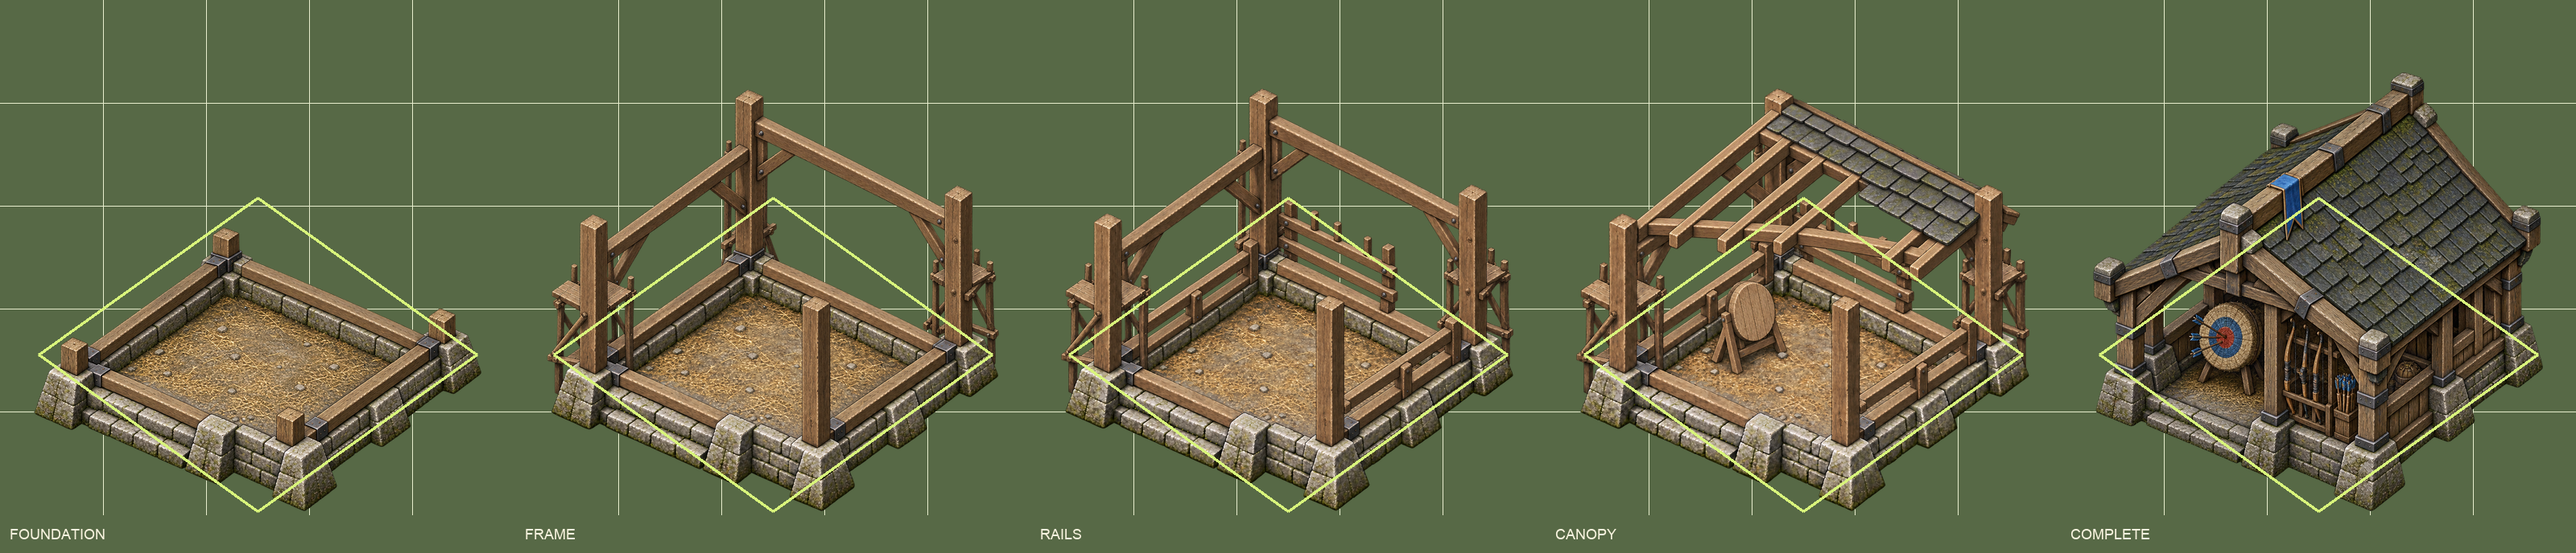
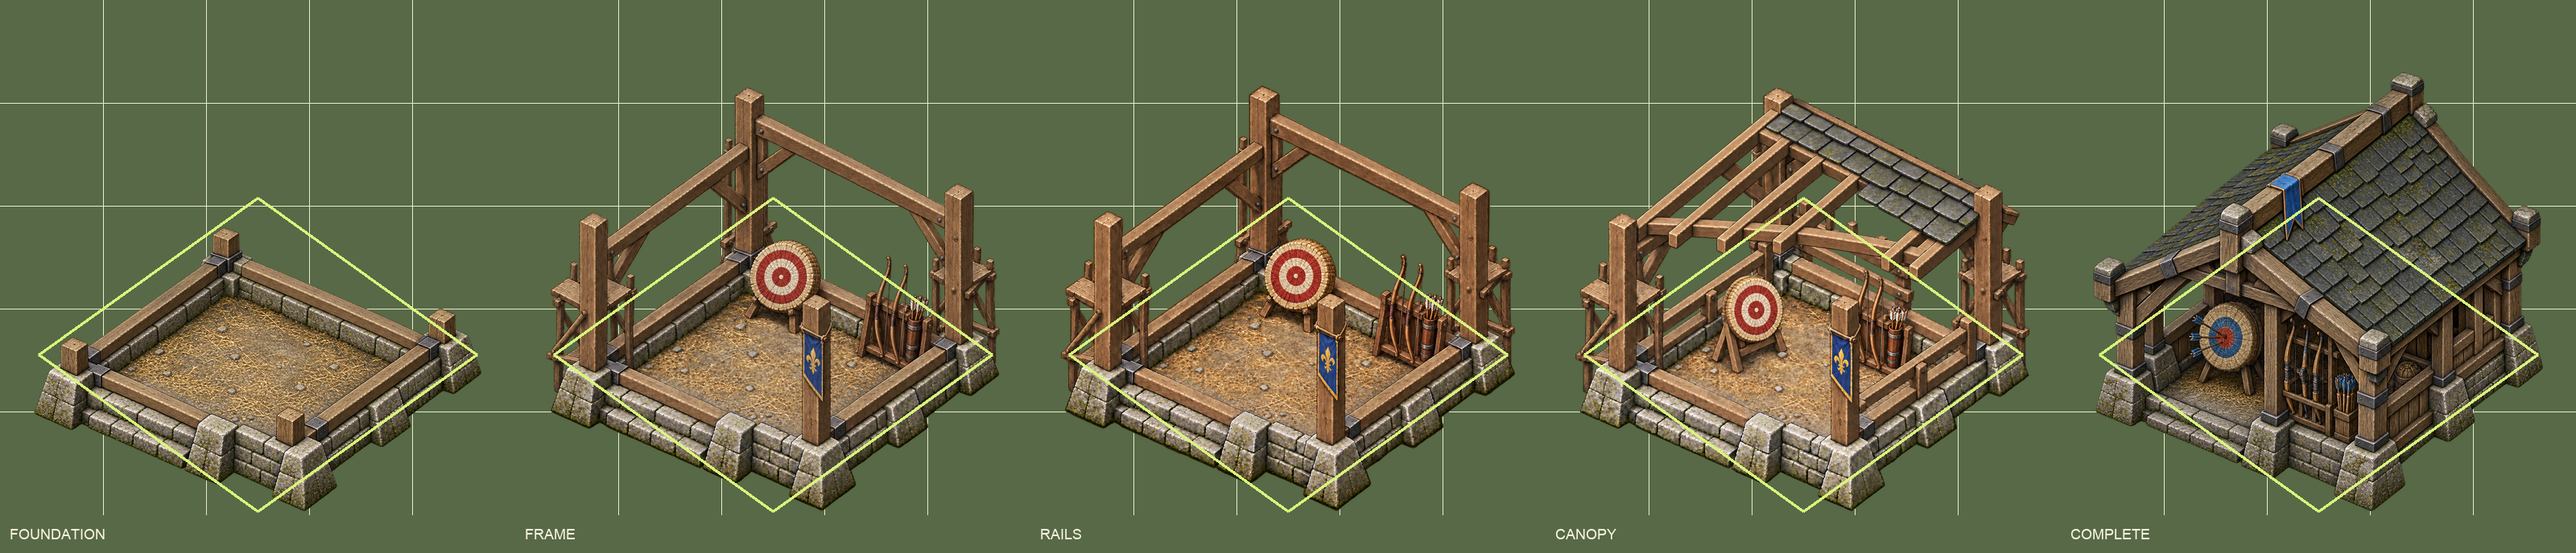
art: clarify Archery Range construction identity

diff --git a/scripts/pack-archery-range-construction-v1.py b/scripts/pack-archery-range-construction-v1.py
@@ -14,10 +14,18 @@ from PIL import Image, ImageChops, ImageDraw, ImageFont
 ROOT = Path(__file__).resolve().parents[1]
 PACK = ROOT / "assets/buildings/archery-range-construction-v1"
 SOURCE = PACK / "source/generated"
+REVISION_SOURCE = PACK / "source/generated-v2"
 NORMALIZED = PACK / "source/frames"
 RUNTIME = PACK / "runtime"
 PREVIEW = PACK / "previews"
 STATES = ("foundation", "frame", "rails", "canopy", "complete")
+PLAYZOOM_STATES = ("frame", "rails", "complete")
+TEAM_PENNANT_REGIONS = {
+    "frame": (650, 700, 850, 980),
+    "rails": (650, 700, 850, 980),
+    "canopy": (650, 700, 850, 980),
+    "complete": (470, 300, 650, 530),
+}
 FRAME_PX = 640
 FIT_PX = 560
 FOOTPRINT_CELLS = 3
@@ -25,6 +33,13 @@ CAMERA_ELEVATION_DEGREES = 46
 BOTTOM_MARGIN_PX = 4
 GROUND_PIVOT = {"x": 320, "y": 441}
 ATLAS_WIDTH = FRAME_PX * len(STATES)
+
+
+def source_path(state: str) -> Path:
+    revision = REVISION_SOURCE / f"archery-range-{state}.png"
+    if revision.exists():
+        return revision
+    return SOURCE / f"archery-range-{state}.png"
 
 
 def alpha_bounds(image: Image.Image, threshold: int = 8) -> tuple[int, int, int, int]:
@@ -50,17 +65,17 @@ def normalize(image: Image.Image, reference_width: int) -> tuple[Image.Image, tu
     return frame, bounds, (x, y, size[0], size[1])
 
 
-def banner_mask(source: Image.Image) -> Image.Image:
-    """Mask only the blue cloth pennant, leaving target and arrow colors alone."""
+def banner_mask(source: Image.Image, region_box: tuple[int, int, int, int]) -> Image.Image:
+    """Mask the blue cloth pennant, leaving target, arrows, and other details alone."""
     source = source.convert("RGBA")
     hsv = source.convert("RGB").convert("HSV")
     hue, saturation, value = hsv.split()
     blue = hue.point([255 if 126 <= channel <= 190 else 0 for channel in range(256)])
     saturated = saturation.point([255 if channel >= 52 else 0 for channel in range(256)])
     visible = source.getchannel("A").point([0] + [255] * 255)
-    region = Image.new("L", source.size, 0)
-    ImageDraw.Draw(region).rectangle((470, 300, 650, 530), fill=255)
-    result = ImageChops.multiply(ImageChops.multiply(blue, saturated), region)
+    region_mask = Image.new("L", source.size, 0)
+    ImageDraw.Draw(region_mask).rectangle(region_box, fill=255)
+    result = ImageChops.multiply(ImageChops.multiply(blue, saturated), region_mask)
     return ImageChops.multiply(result, visible)
 
 
@@ -128,7 +143,25 @@ def build_map_preview(frame: Image.Image, mask: Image.Image, zoom: str, team: st
     y = round(anchor[1] - GROUND_PIVOT["y"] * canvas_height / FRAME_PX)
     capture.alpha_composite(scaled, (x, y))
     PREVIEW.mkdir(parents=True, exist_ok=True)
-    capture.save(PREVIEW / f"archery-range-meadow-zoom-{zoom}-{team}.png", optimize=True)
+    preview_label = "azure" if team == "azure" else "ember-pennant-azure-hud"
+    capture.save(PREVIEW / f"archery-range-meadow-zoom-{zoom}-{preview_label}.png", optimize=True)
+
+
+def build_playzoom_comparison(frames: dict[str, Image.Image], masks: dict[str, Image.Image]) -> None:
+    """Place unlabeled stages on one captured Meadow view at the 0.91 play zoom."""
+    capture = Image.open(PACK / "source/map-captures/meadow-zoom-091.png").convert("RGBA")
+    canvas_width = 56
+    baseline_y = 355
+    anchors = (515, 610, 705)
+    for state, center_x in zip(PLAYZOOM_STATES, anchors):
+        variant = tint_for_preview(frames[state], masks[state], "azure")
+        scaled = variant.resize((canvas_width, canvas_width), Image.Resampling.LANCZOS)
+        x = round(center_x - canvas_width / 2)
+        y = round(baseline_y - GROUND_PIVOT["y"] * canvas_width / FRAME_PX)
+        capture.alpha_composite(scaled, (x, y))
+    PREVIEW.mkdir(parents=True, exist_ok=True)
+    crop = capture.crop((460, 250, 770, 425))
+    crop.save(PREVIEW / "archery-range-identity-playzoom-unlabeled.png", optimize=True)
 
 
 def image_record(file_id: str, relative_path: str, usage: str) -> dict:
@@ -148,7 +181,11 @@ def image_record(file_id: str, relative_path: str, usage: str) -> dict:
 def build_manifest(frames: dict[str, Image.Image]) -> None:
     file_specs = []
     for state in STATES:
-        file_specs.append((f"source-{state}", f"source/generated/archery-range-{state}.png", "source"))
+        active_path = source_path(state).relative_to(PACK).as_posix()
+        file_specs.append((f"source-{state}", active_path, "source"))
+        original_path = f"source/generated/archery-range-{state}.png"
+        if active_path != original_path:
+            file_specs.append((f"source-{state}-original", original_path, "source"))
         file_specs.append((f"frame-{state}", f"source/frames/archery-range-{state}.png", "source"))
     file_specs.extend([
         ("color-source", "source/archery-range-construction-atlas.png", "source"),
@@ -228,7 +265,7 @@ def main() -> None:
     NORMALIZED.mkdir(parents=True, exist_ok=True)
     RUNTIME.mkdir(parents=True, exist_ok=True)
     PREVIEW.mkdir(parents=True, exist_ok=True)
-    originals = {state: Image.open(SOURCE / f"archery-range-{state}.png").convert("RGBA") for state in STATES}
+    originals = {state: Image.open(source_path(state)).convert("RGBA") for state in STATES}
     complete_bounds = alpha_bounds(originals["complete"])
     reference_width = complete_bounds[2] - complete_bounds[0]
     frames: dict[str, Image.Image] = {}
@@ -242,13 +279,15 @@ def main() -> None:
         frame.save(NORMALIZED / f"archery-range-{state}.png", optimize=True)
 
     mask = Image.new("L", (ATLAS_WIDTH, FRAME_PX), 0)
+    masks: dict[str, Image.Image] = {}
     for index, state in enumerate(STATES):
         frame = frames[state]
-        if state == "complete":
-            raw_mask = banner_mask(originals[state])
+        if state in TEAM_PENNANT_REGIONS:
+            raw_mask = banner_mask(originals[state], TEAM_PENNANT_REGIONS[state])
             mask_frame = normalize_mask(raw_mask, bounds_map[state], transforms[state], reference_width)
         else:
             mask_frame = Image.new("L", (FRAME_PX, FRAME_PX), 0)
+        masks[state] = mask_frame
         mask.paste(mask_frame, (index * FRAME_PX, 0))
 
     atlas = Image.new("RGBA", (ATLAS_WIDTH, FRAME_PX), (0, 0, 0, 0))
@@ -261,6 +300,7 @@ def main() -> None:
     build_contact_sheet(frames)
     build_map_preview(frames["complete"], mask.crop((4 * FRAME_PX, 0, 5 * FRAME_PX, FRAME_PX)), "091", "azure", (540, 355), 56)
     build_map_preview(frames["complete"], mask.crop((4 * FRAME_PX, 0, 5 * FRAME_PX, FRAME_PX)), "048", "ember", (590, 348), 30)
+    build_playzoom_comparison(frames, masks)
     build_manifest(frames)
     write_checksums()
     print(f"Packaged {len(STATES)} frames into {PACK.relative_to(ROOT)}")

diff --git a/assets/buildings/archery-range-construction-v1/source/prompts.md b/assets/buildings/archery-range-construction-v1/source/prompts.md
@@ -23,3 +23,19 @@ Output `exec-e9423224-e195-4df5-87c0-4e8cd8a29f6a` (rails, revised prompt):
 Output `exec-f231102b-8bc1-4ba4-aa26-d7b99725e47e` (canopy, revised prompt):
 
 > Use case: precise-object-edit. Asset type: original RTS building construction sprite, source art for a fixed-camera 2.5D game. Input image: Image 1 is the same Archery Range at about 50% construction. Preserve it as the exact identity, camera, framing, footprint, ground anchor, lighting, and material reference. Advance only the construction state to about 75%: the canopy stage. Keep the same 3-by-3-cell stone footing, four timber posts, side rails, and rear equipment rack. Add a sloped roof frame with exposed rafters. Cover roughly the rear half of the canopy in fitted dark moss-slate shingles, leaving the front half open so unfinished rafters remain clearly visible. Add a simple blank round target backing on its front stand, without painted rings or arrows. Use the painterly sculptural 3D appearance translated into a polished 2D cutout sprite; weathered timber, mossy pale stone, charcoal moss-slate, restrained blue cloth only when the standard is built. Keep the same fixed elevated three-quarter orthographic camera, azimuth, elevation, object orientation, scale, canvas crop, and pixel placement as Image 1. Keep the full square canvas and projected ground-center anchor unchanged. Preserve Image 1's soft neutral daylight and self-occlusion. Change only construction progress. The same Archery Range must stay recognizable. Show partial slate coverage and open rafters. Do not finish the whole roof; do not add the painted target rings, stored bows or arrows, or any pennant. Preserve true transparent alpha around the isolated object. No ground plane, external shadow, workers, extra props, text, labels, grid, border, watermark, or recognizable game-franchise design.
+
+## Identity revision: frame, rails, and canopy
+
+The built-in ImageGen tool accepts one prompt field, so the exclusions below are recorded inline and there is no separate negative-prompt value. Original outputs are preserved under `source/generated/`; the revisions are the active source for these three states.
+
+Output `exec-571e7372-767b-42a1-9ceb-20a1be204a4e` (`source/generated-v2/archery-range-frame.png`), edited from the first-pass frame:
+
+> Edit this existing isolated isometric RTS sprite for the Archery Range's first above-foundation construction stage. Preserve the exact camera angle, composition, transparent canvas, stone foundation, exposed timber frame, lighting, material style, and overall silhouette. Change only the interior training equipment and one small team marker. Inside the open bay, add a clearly readable circular straw target with bold cream and brick-red concentric rings on a short wooden tripod, grounded near the rear interior; add a compact rack holding two longbows and a quiver of arrows along the inside right foundation wall. Attach a small azure-blue cloth pennant with a simple gold crest to the near front timber post, halfway up, at a position that can remain consistent in later stages. At 640-pixel game-sprite size, the target and bow rack must still read as archery equipment. This is still an early, open timber frame: no walls, no roof, no extra beams, no finished building. Keep the target and rack within the current structure. Transparent background outside the object; preserve real alpha, no ground plane, no background, no cast shadow beyond the current footprint. No people, text, labels, UI, logos, or extra buildings. High-quality crisp painterly 3D game art matching the reference.
+
+Output `exec-98837a70-b22f-40ac-8b17-325a3045c21d` (`source/generated-v2/archery-range-rails.png`), edited from the first-pass rails image with the revised frame as a prop-style reference:
+
+> Update the Archery Range's third construction stage using both references. Reference 1 is the exact rails-stage structure to preserve: keep its stone foundation, all timber posts and rails, camera, composition, proportions, lighting, materials, and transparent silhouette. Reference 2 is only a style/prop reference for archery equipment and the small team pennant. At this stage the practice rails are installed: add one clearly readable round straw target with cream and brick-red rings on a small grounded stand near the back-center of the bay; add a compact rack with two longbows and a quiver of arrows along the inner right wall. Attach a small azure-blue cloth pennant with a gold crest to the same near-front center post, matching Reference 2's size and shape. Keep the structure open and unfinished with no walls or roof. Do not change the structure itself, don't cover the rails, and keep all equipment inside the existing footprint. At final 640-pixel sprite scale, target, bows, and pennant must remain recognizable. Preserve real transparent alpha outside the asset; no environment, floor plane, extra shadow, people, text, labels, UI, or logos. Crisp painterly 3D RTS game art matching the references.
+
+Output `exec-8894b2e4-fd8a-46d6-8115-675ffa6dcb59` (`source/generated-v2/archery-range-canopy.png`), edited from the first-pass canopy with the revised frame as a prop-style reference:
+
+> Revise the Archery Range's fourth construction stage using both references. Reference 1 is the exact partial-canopy structure to preserve: keep the stone foundation, all posts, beams, rails, exposed rafters, partial slate roof, camera, proportions, lighting, materials, and transparent silhouette unchanged. Reference 2 is only a prop-style reference for the target, bows, and small team pennant. In the open bay, change the plain round board into a clear cream-and-brick-red concentric archery target on the same small grounded tripod. Add a compact rack with two longbows and a quiver of arrows along the inner right wall, visible beneath the open roof. Attach a small azure-blue cloth pennant with a gold crest to the near-front center post, matching Reference 2's size and shape. Keep this a partially roofed construction stage; do not add walls, doors, or change roof coverage. Preserve the current layout and keep all equipment inside the footprint. At final 640-pixel sprite size, the target, bows, and pennant should read clearly. Preserve real transparent alpha outside the sprite; no environment, ground plane, cast shadow beyond the structure, people, text, labels, UI, or logos. Crisp painterly 3D RTS sprite art matching the references.

diff --git a/assets/buildings/archery-range-construction-v1/PROVENANCE.md b/assets/buildings/archery-range-construction-v1/PROVENANCE.md
@@ -1,12 +1,13 @@
 # Archery Range construction sprite provenance
 
 - Artwork generated 2026-09-26 with the built-in OpenAI ImageGen tool.
-- The complete frame is original project-owned Archery Range artwork. The four construction edits use that frame as their visual and camera reference.
+- The complete frame is original project-owned Archery Range artwork. The first construction pass used that frame as its visual and camera reference.
+- The revised frame, rails, and canopy preserve their first-pass construction geometry while adding the target, bow rack, arrows, and a consistent Azure pennant earlier in the sequence. Both generations are retained.
 - No Age of Empires II sprites or other third-party images were used as source pixels.
 - Images are isolated RGBA PNGs, 1254 × 1254 before normalization.
 - Normalized frames use a fixed scale derived from the complete frame's alpha width, a shared projected ground anchor, and the 3 × 3 footprint guide.
-- The team mask is authored by color selection in the pennant region. It excludes the target, arrows, and other blue details.
-- The two Meadow preview inputs are captures from the project's worker-sprite appearance review. They are included under `source/map-captures/` so the composites can be regenerated.
+- The team mask is authored by color selection in each pennant's bounded region. It excludes the target, arrows, and other blue details.
+- The two Meadow preview inputs are Azure-session captures from the project's worker-sprite appearance review. They are included under `source/map-captures/` so the composites can be regenerated. The Ember preview changes only the sprite pennant tint; its HUD and map capture remain Azure.
 - `sprite-atlas-pack-v1.json` records the image hashes and runtime page settings. `SHA256SUMS.txt` covers the package files.
 
 ## ImageGen output IDs
@@ -19,4 +20,12 @@
 | `source/generated/archery-range-canopy.png` | `exec-f231102b-8bc1-4ba4-aa26-d7b99725e47e` | Add a partial slate canopy and exposed rafters. |
 | `source/generated/archery-range-complete.png` | `exec-7fb022ea-345d-4d7b-b655-26ab03e69f86` | Original completed Archery Range reference. |
 
-The PNG exports do not contain prompt metadata. The rows above summarize each edit; the verbatim ImageGen requests remain in the originating Codex task history.
+The PNG exports do not contain prompt metadata. Initial frame, rails, and canopy prompts plus all three revision prompts are recorded in `source/prompts.md`; the initial foundation request is summarized there because its original prompt text was not retained.
+
+## Revision 2 ImageGen output IDs
+
+| File | Output ID | Edit |
+| --- | --- | --- |
+| `source/generated-v2/archery-range-frame.png` | `exec-571e7372-767b-42a1-9ceb-20a1be204a4e` | Add a readable target, bow rack, arrows, and pennant to the first above-foundation stage. |
+| `source/generated-v2/archery-range-rails.png` | `exec-98837a70-b22f-40ac-8b17-325a3045c21d` | Carry the same archery equipment and pennant into the practice-rails stage. |
+| `source/generated-v2/archery-range-canopy.png` | `exec-8894b2e4-fd8a-46d6-8115-675ffa6dcb59` | Carry the target, bow rack, arrows, and pennant into the partial-canopy stage. |

diff --git a/assets/buildings/archery-range-construction-v1/README.md b/assets/buildings/archery-range-construction-v1/README.md
@@ -5,16 +5,18 @@ This pack adds a five-step construction sequence as a separate sprite-atlas-v1 r
 | Order | State | Visible progress |
 | --- | --- | --- |
 | 1 | `foundation` | Stone footing and prepared floor |
-| 2 | `frame` | Corner posts and exposed timber frame |
-| 3 | `rails` | Training rails and equipment structure |
-| 4 | `canopy` | Partial slate canopy over the open bay |
+| 2 | `frame` | Open timber skeleton with a clear target, bow rack, and team pennant |
+| 3 | `rails` | Practice rails, target, bows, arrow rack, and the same pennant |
+| 4 | `canopy` | Partial slate canopy with the training equipment and pennant carried forward |
 | 5 | `complete` | Finished range with target, bows, arrows, and team pennant |
 
 Each frame uses a 640 × 640 canvas at 128 pixels per world unit. The projected ground pivot is `(320, 441)`, marked as an unreviewed estimate. `recommendedTileFootprint` is 3 × 3 as an art hint; map/gameplay occupancy remains authoritative. The art bounds allow a 5 × 5 world-unit frame and 4.5 world units of height.
 
-The page has one full `actor` layer and a grayscale team mask. The mask selects only the blue cloth pennant in the completed state; target rings and arrow fletching retain their source colors. Construction frames have no pennant yet. No foreground occlusion split is included: the art needs renderer-owned depth sorting before a fixed foreground overlay can correctly handle units both in front of and behind the pavilion.
+The page has one full `actor` layer and a grayscale team mask. The mask selects only blue pennants in the frame, rails, canopy, and complete states; target rings and arrow fletching retain their source colors. The foundation remains bare. No foreground occlusion split is included: the art needs renderer-owned depth sorting before a fixed foreground overlay can correctly handle units both in front of and behind the pavilion.
 
-`previews/archery-range-meadow-zoom-091-azure.png` and `previews/archery-range-meadow-zoom-048-ember.png` composite the sprite over actual Meadow game captures at the named zooms. The sprite placement is a static visual composition, not a live renderer result. `previews/archery-range-construction-grid.png` shows the full stage sequence and 3 × 3 footprint guide.
+`previews/archery-range-identity-playzoom-unlabeled.png` places the frame, rails, and complete sprites on one Meadow game capture at zoom 0.91, with no stage labels. The sprite placements are static visual compositions, not live renderer results. `previews/archery-range-meadow-zoom-091-azure.png` shows the Azure pennant over an Azure capture. `previews/archery-range-meadow-zoom-048-ember-pennant-azure-hud.png` tints only the pennant for Ember; its captured HUD remains Azure. It is not Ember runtime evidence. `previews/archery-range-construction-grid.png` shows all five stages and the 3 × 3 footprint guide.
+
+The first-pass generated images remain in `source/generated/`. Revised frame, rails, and canopy images are kept separately in `source/generated-v2/`; the packer uses those revised sources without overwriting the originals.
 
 Regenerate the atlas, mask, previews, manifest, and checksums with:
 
